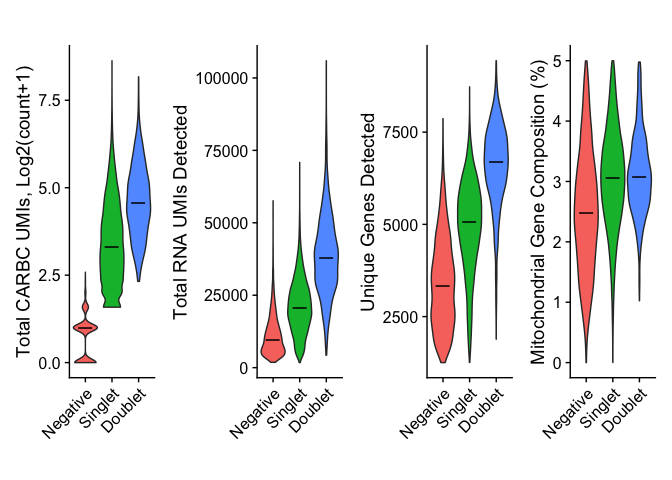
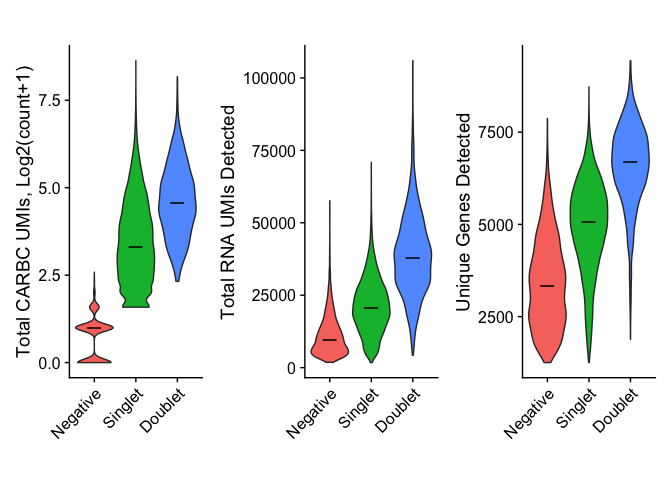
update src files

Changed region(s): [[0.0938, 0.0938, 0.9688, 0.9062], [0.0625, 0.7812, 0.25, 0.9062], [0.25, 0.7812, 0.2812, 0.8438]]

diff --git a/README.md b/README.md
@@ -6,7 +6,7 @@ Author: Caleb R. Perez
 Compiled: October 03, 2024
 
 Reference: [Perez et al.,
-2014](https://www.biorxiv.org/content/10.1101/2024.04.29.591541v1)
+2024](https://www.biorxiv.org/content/10.1101/2024.04.29.591541v1)
 
 ## Introduction
 
@@ -81,7 +81,7 @@ in an `HTO` assay for easy sample demultiplexing.
 
 ``` r
 # Setup working directory and source caRNA-seq scripts
-repo_directory <- "/Users/caleb/Dropbox (MIT)/Birnbaum Lab/Manuscripts/caRNA-seq/GitHub"
+repo_directory <- "/Users/caleb/Documents/GitHub/caRNA-seq"
 setwd(repo_directory)
 source("./src/caRNA-seq_preprocessing.R")
 source("./src/caRNA-seq_analysis.R")
@@ -228,7 +228,7 @@ DoAverageHeatmap(seurat_obj, group.by = "CARID", features = VariableFeatures(seu
     name = "Gene Z Scores")
 ```
 
-![](README_files/figure-gfm/unnamed-chunk-7-1.png)<!-- -->
+![](README_files/figure-gfm/unnamed-chunk-7-1.png)<!-- -->![](README_files/figure-gfm/unnamed-chunk-7-2.png)<!-- -->
 
 This analysis seems to suggest that CAR1 drives a unique transcriptional
 profile. We can look specifically at the genes driving this signature
